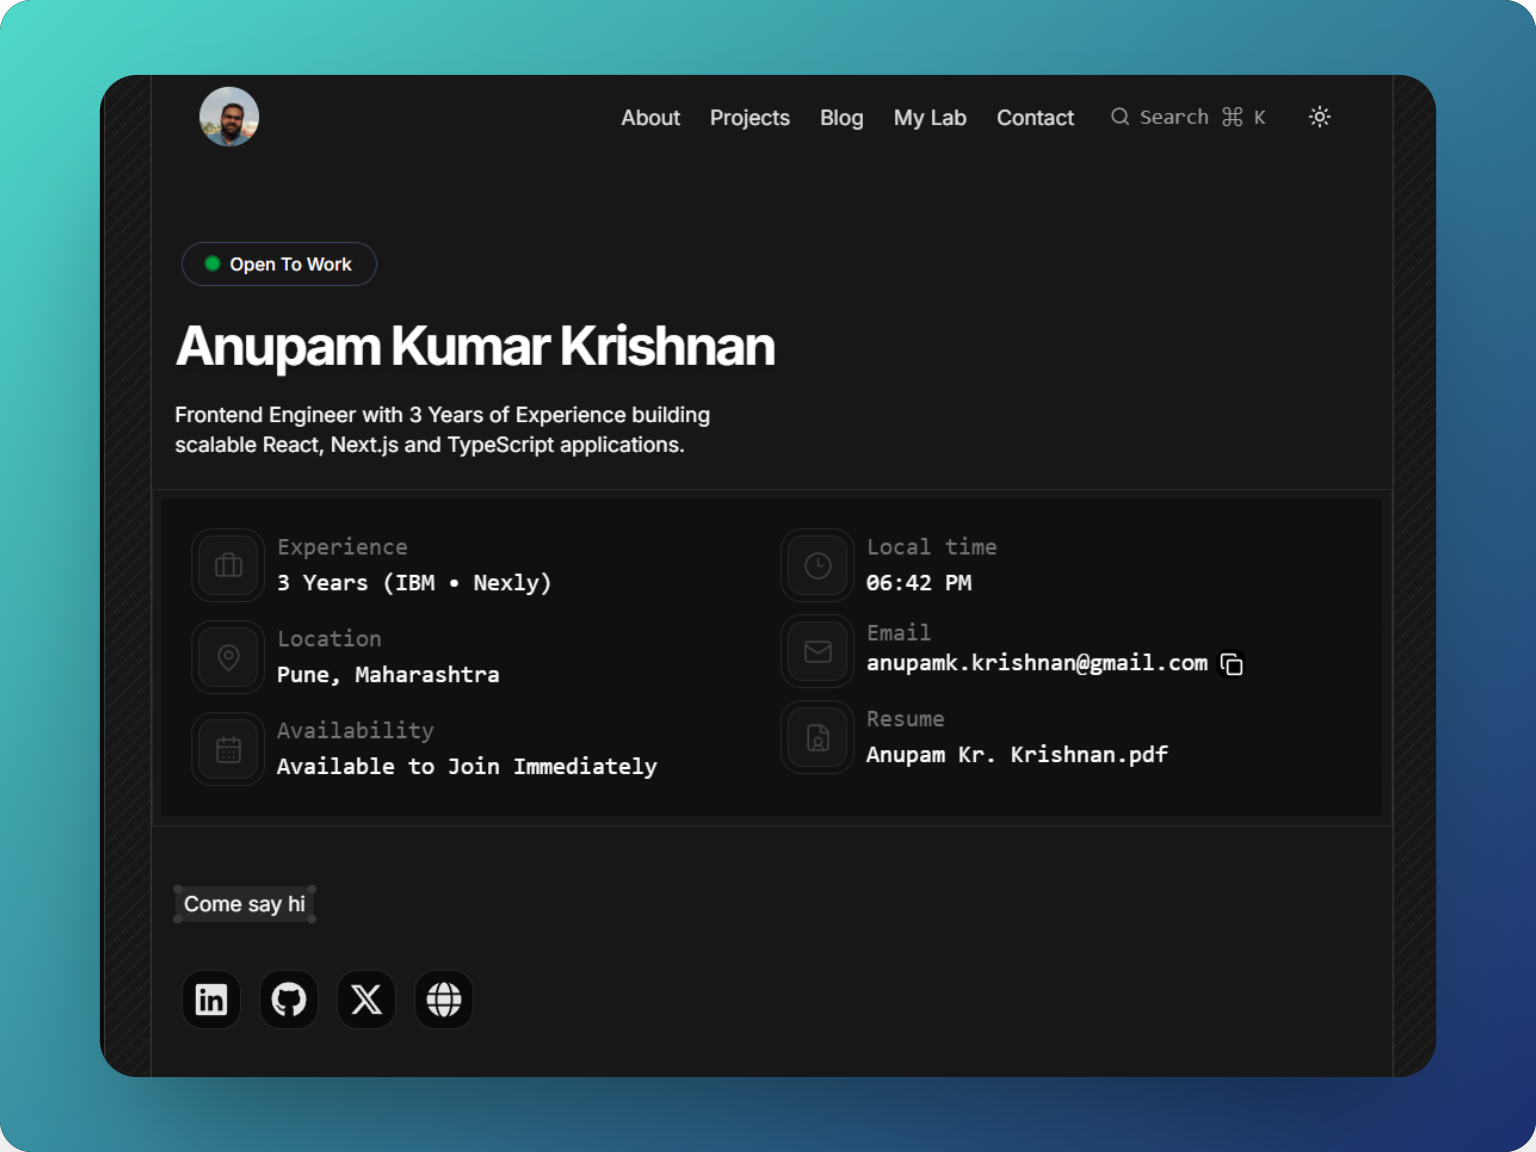
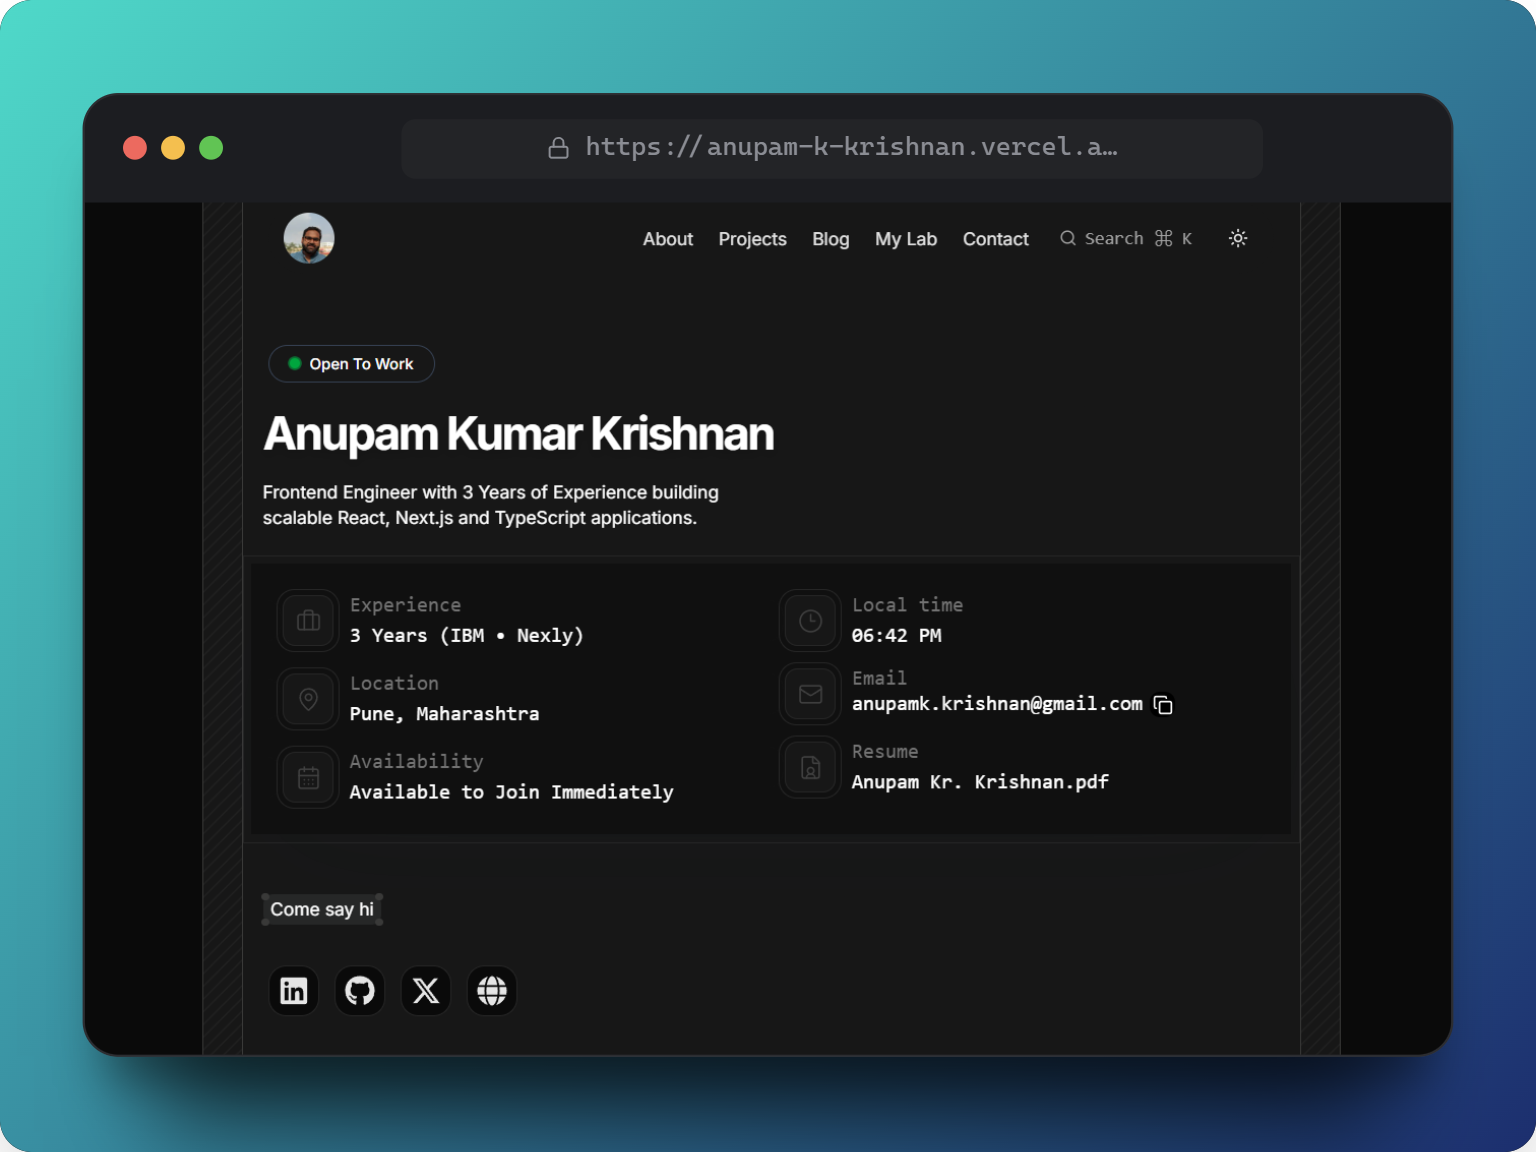
feat(projects): add Marginal project and update project details for Reqon and Baarish

diff --git a/src/constants/projects.ts b/src/constants/projects.ts
@@ -29,15 +29,19 @@ export const projects: Project[] = [
     ],
   },
   {
-    title: "Baarish - Rain Jukebox",
-    src: "/projects/baarish-project.png",
-    githubUrl: "https://github.com/anupam-kumar-krishnan/rain-jukebox",
-    liveUrl: "https://rain-jukebox.vercel.app/",
+    title: "Reqon",
+    src: "/projects/reqon-project.png",
+    githubUrl: "https://github.com/anupam-kumar-krishnan/reqon",
+    liveUrl: "https://reqon-seven.vercel.app/",
     description:
-      "A music player streaming audio via YouTube IFrame API — hidden video, clean audio-player UI.",
+      "API Testing Tool which manage REST APIs and WebSocket connections efficiently.",
     stack: [
       { icon: "nextjs", name: "Next JS" },
+      { icon: "postgresql", name: "PostgreSQL" },
+      { icon: "tanstack", name: "TanStack" },
+      { icon: "shadcn", name: "Shadcn/UI" },
       { icon: "tailwind", name: "Tailwind CSS" },
+      { icon: "betterauth", name: "Better Auth" },
     ],
   },
   {
@@ -54,16 +58,29 @@ export const projects: Project[] = [
     ],
   },
   {
-    title: "Portfolio",
-    src: "/projects/portfolio-project.png",
-    githubUrl: "https://github.com/anupam-kumar-krishnan/personal-portfolio",
-    liveUrl: "https://anupam-k-krishnan.vercel.app/",
+    title: "Baarish - Rain Jukebox",
+    src: "/projects/baarish-project.png",
+    githubUrl: "https://github.com/anupam-kumar-krishnan/rain-jukebox",
+    liveUrl: "https://rain-jukebox.vercel.app/",
     description:
-      "Portfolio Website to showcase my Work, Experience, and Technical skills as a Software Developer.",
+      "A music player streaming audio via YouTube IFrame API — hidden video, clean audio-player UI.",
     stack: [
       { icon: "nextjs", name: "Next JS" },
       { icon: "tailwind", name: "Tailwind CSS" },
-      { icon: "motion", name: "Motion" },
+      { icon: "api", name: "Youtube" },
+    ],
+  },
+  {
+    title: "Marginal",
+    src: "/projects/marginal-project-dark.png",
+    githubUrl: "https://github.com/anupam-kumar-krishnan/marginal",
+    liveUrl: "https://marginal-wine.vercel.app/",
+    description:
+      "Marginal is a quiet, block-based notebook. Type a slash for instant commands, start from a template.",
+    stack: [
+      { icon: "nextjs", name: "Next JS" },
+      { icon: "tailwind", name: "Tailwind CSS" },
+      { icon: "zustand", name: "Zustand" },
     ],
   },
   {
@@ -81,19 +98,16 @@ export const projects: Project[] = [
     ],
   },
   {
-    title: "Reqon",
-    src: "/projects/reqon-project.png",
-    githubUrl: "https://github.com/anupam-kumar-krishnan/reqon",
-    liveUrl: "https://reqon-seven.vercel.app/",
+    title: "Portfolio",
+    src: "/projects/portfolio-project.png",
+    githubUrl: "https://github.com/anupam-kumar-krishnan/personal-portfolio",
+    liveUrl: "https://anupam-k-krishnan.vercel.app/",
     description:
-      "API Testing Tool which manage REST APIs and WebSocket connections efficiently.",
+      "Portfolio Website to showcase my Work, Experience, and Technical skills as a Software Developer.",
     stack: [
       { icon: "nextjs", name: "Next JS" },
-      { icon: "postgresql", name: "PostgreSQL" },
-      { icon: "tanstack", name: "TanStack" },
-      { icon: "shadcn", name: "Shadcn/UI" },
       { icon: "tailwind", name: "Tailwind CSS" },
-      { icon: "betterauth", name: "Better Auth" },
+      { icon: "motion", name: "Motion" },
     ],
   },
 ];
